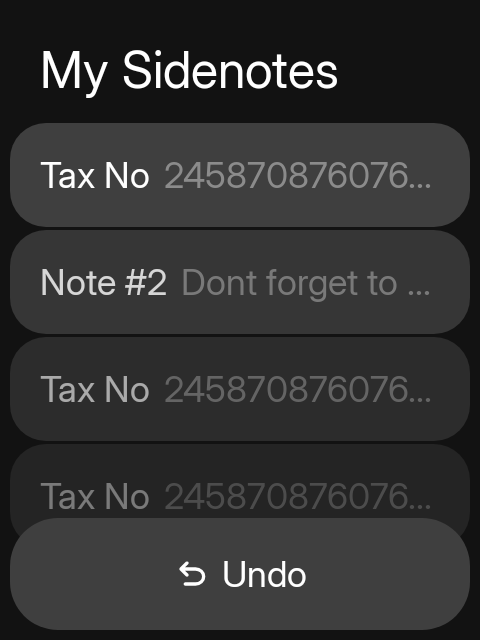
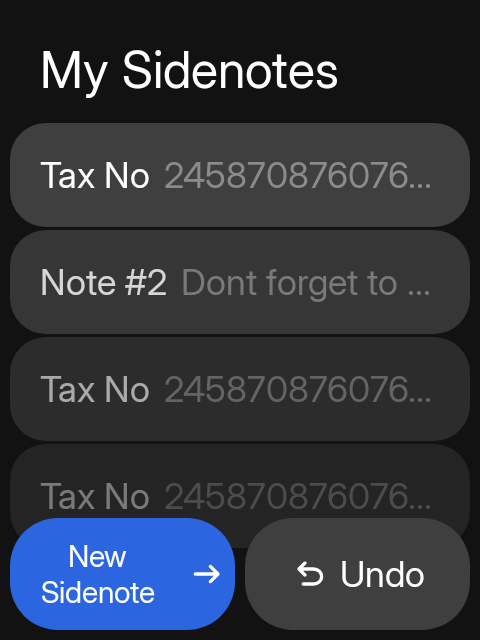
Keep Undo to the right of the action, never in place of it
Undo is an offer, not a mode. Two slots: the left one keeps what the screen is
for, the right one is empty until something can be undone and then shows Undo.
Root lists read New | Undo, browse lists Back | Undo, and where a screen has
both a way back and a primary the primary holds the left slot while the exit
button steps aside for the five seconds (system back still leaves, and the exit
returns with the primary).

Fixes the previous mistake where a single-slot bar became Undo alone, and the
one where an unchanged bar lost its first action: undoBar now only participates
while there is something to undo.

Changed region(s): [[0.0, 0.8125, 0.9062, 1.0]]

diff --git a/app/src/main/java/hrln/interactive/sidekit/apps/webbrowser/WebBrowserScreen.kt b/app/src/main/java/hrln/interactive/sidekit/apps/webbrowser/WebBrowserScreen.kt
@@ -146,8 +146,8 @@ private fun StartTile(page: WebPage, onLink: () -> Unit, modifier: Modifier = Mo
 private fun withNotice(notice: String?, onDismiss: () -> Unit, actions: List<SideAction>): List<SideAction> =
     if (notice == null) actions else listOf(SideAction("notice", notice, tone = ActionTone.Muted, dense = true, motion = ActionMotion.Up, onClick = onDismiss))
 
-private fun withUndo(undo: BrowserUndo?, onUndo: () -> Unit, exit: SideAction?, primary: SideAction?): List<SideAction> =
-    undoBar(exit = exit, primary = primary, undo = undo?.let { SideAction.undo(contentDescription = "Undo", onClick = onUndo) })
+private fun withUndo(undo: BrowserUndo?, onUndo: () -> Unit, continueWith: SideAction): List<SideAction> =
+    undoBar(continueWith = continueWith, undo = undo?.let { SideAction.undo(contentDescription = "Undo", onClick = onUndo) })
 
 /**
  * The browser. One route; the page, tab list, bookmarks and history are modes of it so the live
@@ -415,12 +415,12 @@ private fun TabsScreen(
     onDismissNotice: () -> Unit,
 ) {
     BackHandler(onBack = onBack)
-    val main = withUndo(
-        undo,
-        onUndo,
-        exit = SideAction.back("back", "Page", onBack),
-        primary = SideAction("forward", "New tab", SidekitIcon.Add, iconAtEnd = true, motion = ActionMotion.Forward, onClick = onNew),
-    )
+    val newTab = SideAction("forward", "New tab", SidekitIcon.Add, iconAtEnd = true, motion = ActionMotion.Forward, onClick = onNew)
+    val main = if (undo != null) {
+        withUndo(undo, onUndo, continueWith = newTab)
+    } else {
+        listOf(SideAction.back("back", "Page", onBack), newTab)
+    }
     SidekitScaffold(title = if (data.tabs.size == 1) "1 tab" else "${data.tabs.size} tabs", actions = withNotice(notice, onDismissNotice, main)) { padding ->
         val listState = rememberLazyListState()
         val swipe = rememberSwipeRevealGroup()
@@ -470,7 +470,7 @@ private fun BookmarksScreen(
     onUndo: () -> Unit,
 ) {
     BackHandler(onBack = onBack)
-    SidekitScaffold(title = "Bookmarks", actions = withUndo(undo, onUndo, exit = SideAction.back("back", "Tabs", onBack), primary = null)) { padding ->
+    SidekitScaffold(title = "Bookmarks", actions = withUndo(undo, onUndo, continueWith = SideAction.back("back", "Tabs", onBack))) { padding ->
         val listState = rememberLazyListState()
         val swipe = rememberSwipeRevealGroup()
         SidekitList(padding, state = listState) {

diff --git a/app/src/test/java/hrln/interactive/sidekit/apps/UndoConventionTest.kt b/app/src/test/java/hrln/interactive/sidekit/apps/UndoConventionTest.kt
@@ -18,39 +18,28 @@ class UndoConventionTest {
     private fun action(key: String, label: String) = SideAction(key, label) {}
 
     @Test
-    fun `undo takes the right slot and leaves the exit alone`() {
-        val bar = undoBar(exit = action("back", "Back"), primary = action("new", "New"), undo = SideAction.undo {})
-        assertEquals(listOf("back", "undo"), bar.map { it.key })
+    fun `undo joins the primary on the right and adds nothing else`() {
+        val bar = undoBar(continueWith = action("new", "New"), undo = SideAction.undo {})
+        assertEquals(listOf("new", "undo"), bar.map { it.key })
     }
 
     @Test
-    fun `the primary returns when there is nothing to undo`() {
-        val bar = undoBar(exit = action("back", "Back"), primary = action("new", "New"), undo = null)
-        assertEquals(listOf("back", "new"), bar.map { it.key })
+    fun `the primary keeps the left slot and the exit steps aside`() {
+        val bar = undoBar(continueWith = action("compose", "Compose"), undo = SideAction.undo {})
+        assertEquals(listOf("compose", "undo"), bar.map { it.key })
+        assertEquals(2, bar.size)
     }
 
     @Test
-    fun `a root list with no exit shows undo alone`() {
-        val bar = undoBar(primary = action("new", "New"), undo = SideAction.undo {})
-        assertEquals(listOf("undo"), bar.map { it.key })
+    fun `the bar is unchanged when there is nothing to undo`() {
+        val bar = undoBar(continueWith = action("back", "Back"), undo = null)
+        assertEquals(listOf("back"), bar.map { it.key })
     }
 
     @Test
-    fun `a draft keeps Send and adds undo third`() {
-        val bar = undoBar(
-            exit = action("back", "Back"),
-            primary = action("send", "Send"),
-            undo = SideAction.undo {},
-            keepPrimary = true,
-        )
-        assertEquals(listOf("back", "send", "undo"), bar.map { it.key })
-    }
-
-    @Test
-    fun `undo is muted and rises in place`() {
-        val undo = SideAction.undo(contentDescription = "Undo delete Barclays") {}
-        assertEquals(ActionTone.Muted, undo.tone)
-        assertEquals("Undo delete Barclays", undo.contentDescription)
+    fun `a draft never grows an undo button`() {
+        val bar = undoBar(continueWith = action("send", "Send"), undo = null)
+        assertEquals(listOf("send"), bar.map { it.key })
     }
 
     /**

diff --git a/app/src/main/java/hrln/interactive/sidekit/apps/sideticks/SideticksScreen.kt b/app/src/main/java/hrln/interactive/sidekit/apps/sideticks/SideticksScreen.kt
@@ -63,15 +63,17 @@ fun SideticksScreen(
         modifier = Modifier.focusRequester(screenFocus).focusable(),
         title = "My Sideticks",
         actions = buildList {
-            addAll(
-                undoBar(
-                    exit = if (state.draft != null) SideAction.cancel("cancel", onClick = onCancel) else null,
-                    primary =
-                    if (state.draft != null) SideAction("main", "Confirm", SidekitIcon.Check, iconAtEnd = true, tone = ActionTone.Secondary, motion = ActionMotion.Up, onClick = onConfirmDraft)
-                    else SideAction("main", "New Sidetick", SidekitIcon.Add, iconAtEnd = true, motion = ActionMotion.Up, onClick = onNewTick),
-                    undo = if (state.draft == null && state.recentlyDeleted.isNotEmpty()) SideAction.undo(contentDescription = "Undo delete tick", onClick = onUndo) else null,
-                ),
-            )
+            if (state.draft != null) {
+                add(SideAction.cancel("cancel", onClick = onCancel))
+                add(SideAction("main", "Confirm", SidekitIcon.Check, iconAtEnd = true, tone = ActionTone.Secondary, motion = ActionMotion.Up, onClick = onConfirmDraft))
+            } else {
+                addAll(
+                    undoBar(
+                        continueWith = SideAction("main", "New Sidetick", SidekitIcon.Add, iconAtEnd = true, motion = ActionMotion.Up, onClick = onNewTick),
+                        undo = if (state.recentlyDeleted.isNotEmpty()) SideAction.undo(contentDescription = "Undo delete tick", onClick = onUndo) else null,
+                    ),
+                )
+            }
             if (needsNotifications && state.dueText != null) add(SideAction("allow", "Allow", onClick = onNotifications))
         },
         options = if (state.draft != null) listOf(SideAction("due", if (state.dueText == null) "Due time" else "No due time") { onDue(if (state.dueText == null) "" else null) })

diff --git a/sidekit/src/main/java/hrln/interactive/sidekit/design/action/UndoBar.kt b/sidekit/src/main/java/hrln/interactive/sidekit/design/action/UndoBar.kt
@@ -3,22 +3,14 @@ package hrln.interactive.sidekit.design.action
 /**
  * The bar while a delete can still be taken back.
  *
- * The bar keeps its two slots and never grows or hides the exit: the left slot is always the way
- * out, and for a few seconds the right slot promises [undo] instead of [primary] — the promise on
- * the table right now is "put it back". The primary action returns when the undo window closes.
+ * Undo is an offer, not a mode, so it never removes the thing the screen is for: the bar keeps two
+ * slots, the left one holds the continuation ([continueWith]) and the right one — which is empty
+ * until something can be undone — shows [undo] for as long as the window lasts. The undo button is
+ * only ever added, never substituted, and always lands on the same side.
  *
- * Pass [keepPrimary] where the primary is holding typed work (a draft's Send), so the undo becomes
- * a third button instead of stranding the text. Pass [trailing] for fixed companions (a locate or
- * permission action) that stay put either way.
+ * When a screen has both a way back and a primary action the primary wins the left slot, so the
+ * exit button steps aside for the window; the system back still leaves, and the exit returns with
+ * the primary.
  */
-fun undoBar(
-    exit: SideAction? = null,
-    primary: SideAction? = null,
-    undo: SideAction? = null,
-    keepPrimary: Boolean = false,
-    trailing: List<SideAction> = emptyList(),
-): List<SideAction> = when {
-    undo == null -> listOfNotNull(exit, primary) + trailing
-    keepPrimary -> listOfNotNull(exit, primary, undo) + trailing
-    else -> listOfNotNull(exit, undo) + trailing
-}
+fun undoBar(continueWith: SideAction, undo: SideAction? = null): List<SideAction> =
+    if (undo == null) listOf(continueWith) else listOf(continueWith, undo)

diff --git a/app/src/main/java/hrln/interactive/sidekit/apps/sideweather/SideweatherGraph.kt b/app/src/main/java/hrln/interactive/sidekit/apps/sideweather/SideweatherGraph.kt
@@ -66,12 +66,9 @@ fun NavGraphBuilder.sideweatherGraph(nav: NavHostController) {
                         val locate = locationAction(vm.repository::select) { message = it }
                         val list = rememberLazyListState()
                         val group = rememberSwipeRevealGroup()
-                        SidekitScaffold("Locations", actions = undoBar(
-                            exit = SideAction.back("back", "Back", back),
-                            primary = SideAction("add", "Add") { nav.navigate("$root/search") },
-                            undo = deleted?.let { p -> SideAction.undo(contentDescription = "Undo delete ${p.name}") { vm.repository.select(p); deleted = null } },
-                            trailing = listOf(locate),
-                        )) { padding ->
+                        val add = SideAction("add", "Add") { nav.navigate("$root/search") }
+                        val undo = deleted?.let { p -> SideAction.undo(contentDescription = "Undo delete ${p.name}") { vm.repository.select(p); deleted = null } }
+                        SidekitScaffold("Locations", actions = if (undo == null) listOf(SideAction.back("back", "Back", back), add, locate) else undoBar(add, undo)) { padding ->
                             SidekitList(padding, state = list) {
                                 item { OutdoorInfo(error ?: message, modifier = Modifier.listFade(list, 0)) }
                                 val places = settings?.places.orEmpty()

diff --git a/app/src/main/java/hrln/interactive/sidekit/apps/tripplanning/TripLive.kt b/app/src/main/java/hrln/interactive/sidekit/apps/tripplanning/TripLive.kt
@@ -131,7 +131,7 @@ fun NavGraphBuilder.liveTripsGraph(nav: NavHostController, transit: NswTransit =
                     // it must not evict Save from the editor if the user navigates during the window.
                     val undoAction = undo?.takeIf { page == "places" || page == "saved" }
                         ?.let { restore -> SideAction.undo { restore(); undo = null } }
-                    undoBar(exit = actions.firstOrNull(), primary = actions.getOrNull(1), undo = undoAction)
+                    if (undoAction == null) actions else undoBar(continueWith = actions.last(), undo = undoAction)
                 }
                 val options = if (page == "places") listOf(SideAction("useAs", if (useAsStart) "Use as destination" else "Use as start") { useAsStart = !useAsStart }) else if (page == "detail") listOf(SideAction("edit", "Edit") { vm.edit(vm.selected); nav.navigate("$root/plan") }) else if (page == "plan") listOf(
                     SideAction("fromSearch", "Find From stop") { vm.search(true) { nav.navigate("$root/stops") } },

diff --git a/app/src/main/java/hrln/interactive/sidekit/apps/banking/BankingScreen.kt b/app/src/main/java/hrln/interactive/sidekit/apps/banking/BankingScreen.kt
@@ -72,14 +72,14 @@ const val TRACKER_NOTICE =
 private const val TRACKER_CAPTION = "Tracked here · not bank-linked"
 
 /**
- * Undo split shared by every Banking list: the exit stays on the left, and the right slot offers
- * "Undo delete Barclays" until the window closes. The main action returns after it.
+ * Undo split shared by every Banking list: the main action holds the left slot and the right slot
+ * offers "Undo delete Barclays" until the window closes. Nothing else is taken away.
  */
 private fun withUndo(undo: BankingUndo?, onUndo: () -> Unit, main: List<SideAction>): List<SideAction> =
-    undoBar(
-        exit = main.firstOrNull(),
-        primary = main.getOrNull(1),
-        undo = undo?.let { u -> SideAction.undo(contentDescription = u.label, onClick = onUndo) },
+    if (undo == null) main
+    else undoBar(
+        continueWith = main.last(),
+        undo = SideAction.undo(contentDescription = undo.label, onClick = onUndo),
     )
 
 /**

diff --git a/app/src/main/java/hrln/interactive/sidekit/apps/sidemessage/SidemessageScreens.kt b/app/src/main/java/hrln/interactive/sidekit/apps/sidemessage/SidemessageScreens.kt
@@ -195,11 +195,10 @@ fun ConversationScreen(
         // A draft already open keeps its Send action so typing isn't stranded.
         addAll(
             undoBar(
-                primary =
+                continueWith =
                 if (draft != null) SideAction("compose", "Send", SidekitIcon.ArrowUpward, iconAtEnd = true, tone = ActionTone.Secondary, motion = ActionMotion.Up, contentDescription = "Send message", onClick = onSend)
                 else SideAction("compose", "Text", SidekitIcon.ArrowUpward, iconAtEnd = true, motion = ActionMotion.Up, onClick = onStartTyping),
-                undo = if (state.canUndo) SideAction.undo(contentDescription = "Undo delete message", onClick = onUndoDelete) else null,
-                keepPrimary = draft != null,
+                undo = if (draft == null && state.canUndo) SideAction.undo(contentDescription = "Undo delete message", onClick = onUndoDelete) else null,
             ),
         )
     }

diff --git a/app/src/main/java/hrln/interactive/sidekit/apps/clock/ClockGraph.kt b/app/src/main/java/hrln/interactive/sidekit/apps/clock/ClockGraph.kt
@@ -127,10 +127,10 @@ internal fun ClockScreen(onEdit: (String) -> Unit, repository: ClockRepository? 
                 add(SideAction("reset", if (current.stopwatch.startedAt == null) "Reset" else "Lap") { if (current.stopwatch.startedAt == null) repo.resetStopwatch() else repo.lap() })
             }
         }
-        // As in Sideticks, Undo takes the bar's only slot while an alarm delete can be undone.
-        // The window belongs to the Alarms tab; it never blanks Timer or Stopwatch.
+        // As in Sideticks, Undo joins the bar while an alarm delete can be undone; "New alarm"
+        // keeps the left slot. The window belongs to the Alarms tab; Timer and Stopwatch never
+        // grow an undo button.
         if (tab == "Alarms" && deletedPending != null) {
-            clear()
             add(SideAction.undo(contentDescription = "Undo delete alarm", onClick = repo::undoDelete))
         }
     }

diff --git a/app/src/main/java/hrln/interactive/sidekit/apps/compass/CompassLive.kt b/app/src/main/java/hrln/interactive/sidekit/apps/compass/CompassLive.kt
@@ -77,7 +77,7 @@ fun CompassBookmarks(onBack: () -> Unit) {
     var deleted by remember { mutableStateOf<HeadingBookmark?>(null) }
     LaunchedEffect(deleted) { if (deleted != null) { delay(5_000); deleted = null } }
     SidekitScaffold("Saved headings", actions = undoBar(
-            exit = SideAction.back("back", "Back", onBack),
+            continueWith = SideAction.back("back", "Back", onBack),
             undo = deleted?.let { p -> SideAction.undo(contentDescription = "Undo delete heading") { store.edit { (it + p).sortedByDescending { b -> b.time } }; deleted = null } },
         )) { padding ->
         SidekitList(padding, state = list) {

diff --git a/app/src/main/java/hrln/interactive/sidekit/apps/mail/MailGraph.kt b/app/src/main/java/hrln/interactive/sidekit/apps/mail/MailGraph.kt
@@ -147,7 +147,7 @@ private fun mailActions(
     notice: String?, dismiss: () -> Unit, hasUndo: Boolean, undo: () -> Unit, first: SideAction, second: SideAction,
 ): List<SideAction> = when {
     notice != null -> listOf(SideAction("notice", notice, tone = ActionTone.Muted, dense = true, onClick = dismiss))
-    hasUndo -> undoBar(exit = first, primary = second, undo = SideAction.undo(contentDescription = "Undo delete message", onClick = undo))
+    hasUndo -> undoBar(continueWith = second, undo = SideAction.undo(contentDescription = "Undo delete message", onClick = undo))
     else -> listOf(first, second)
 }
 

diff --git a/app/src/main/java/hrln/interactive/sidekit/apps/sidenotes/SidenotesScreens.kt b/app/src/main/java/hrln/interactive/sidekit/apps/sidenotes/SidenotesScreens.kt
@@ -70,7 +70,7 @@ fun SidenotesListScreen(
     onUndoDelete: () -> Unit,
 ) {
     val actions = undoBar(
-        primary = SideAction.forward("new", "New Sidenote", onNewNote),
+        continueWith = SideAction.forward("new", "New Sidenote", onNewNote),
         undo = if (state.recentlyDeleted != null) SideAction.undo(contentDescription = "Undo delete note", onClick = onUndoDelete) else null,
     )
 
